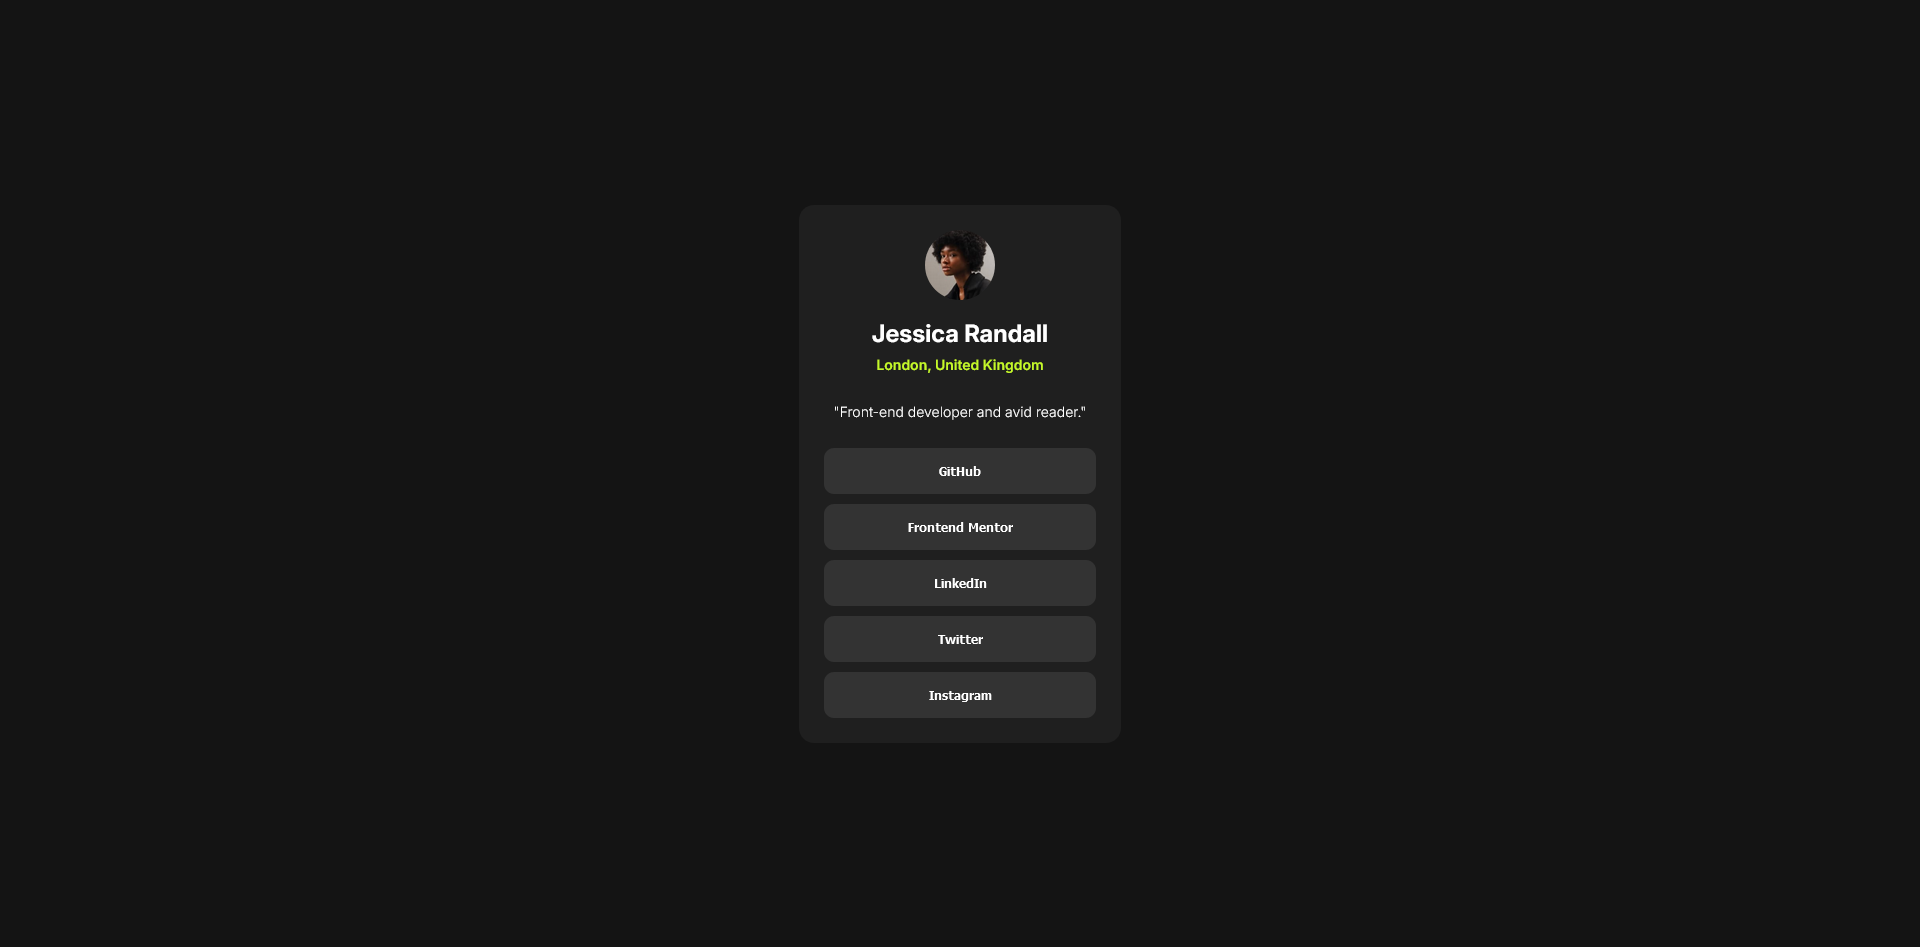
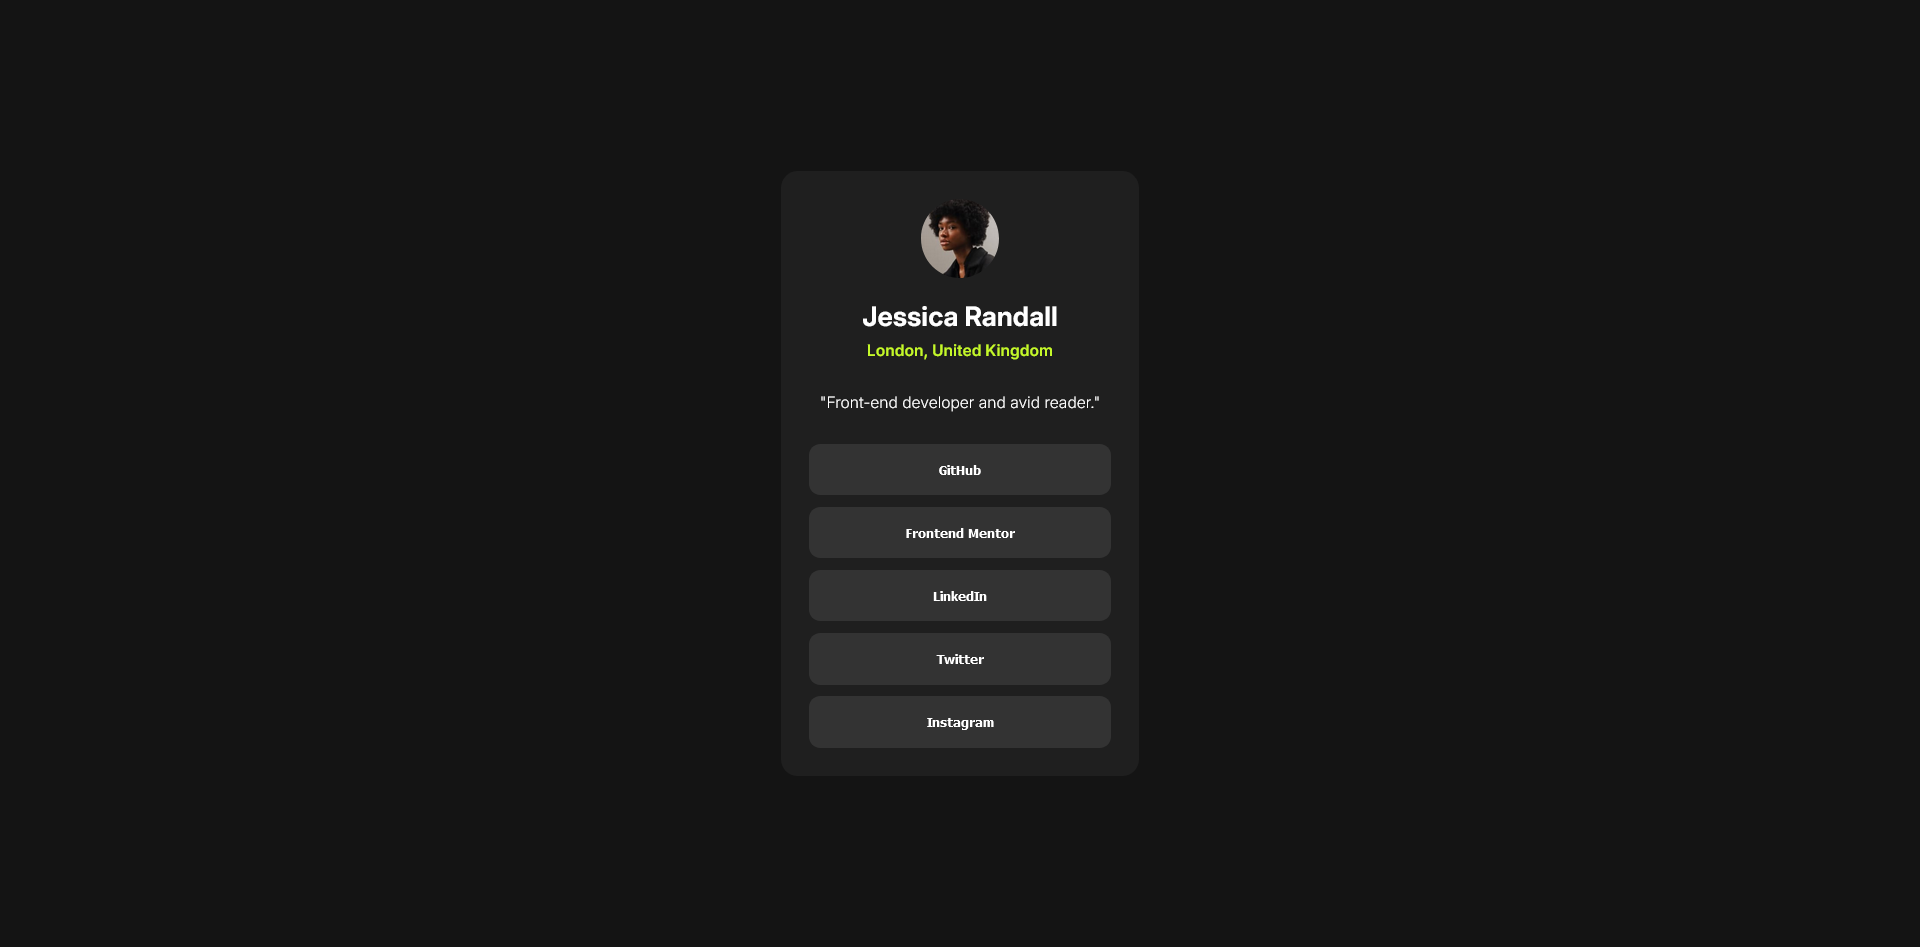
corrected font size

diff --git a/style.scss b/style.scss
@@ -17,7 +17,7 @@
 
   html {
     box-sizing: border-box;
-    font-size: 62.5%;
+    font-size: 70%;
   }
 
   body {

diff --git a/style.css b/style.css
@@ -17,7 +17,7 @@
 
 html {
   box-sizing: border-box;
-  font-size: 62.5%;
+  font-size: 70%;
 }
 
 body {
